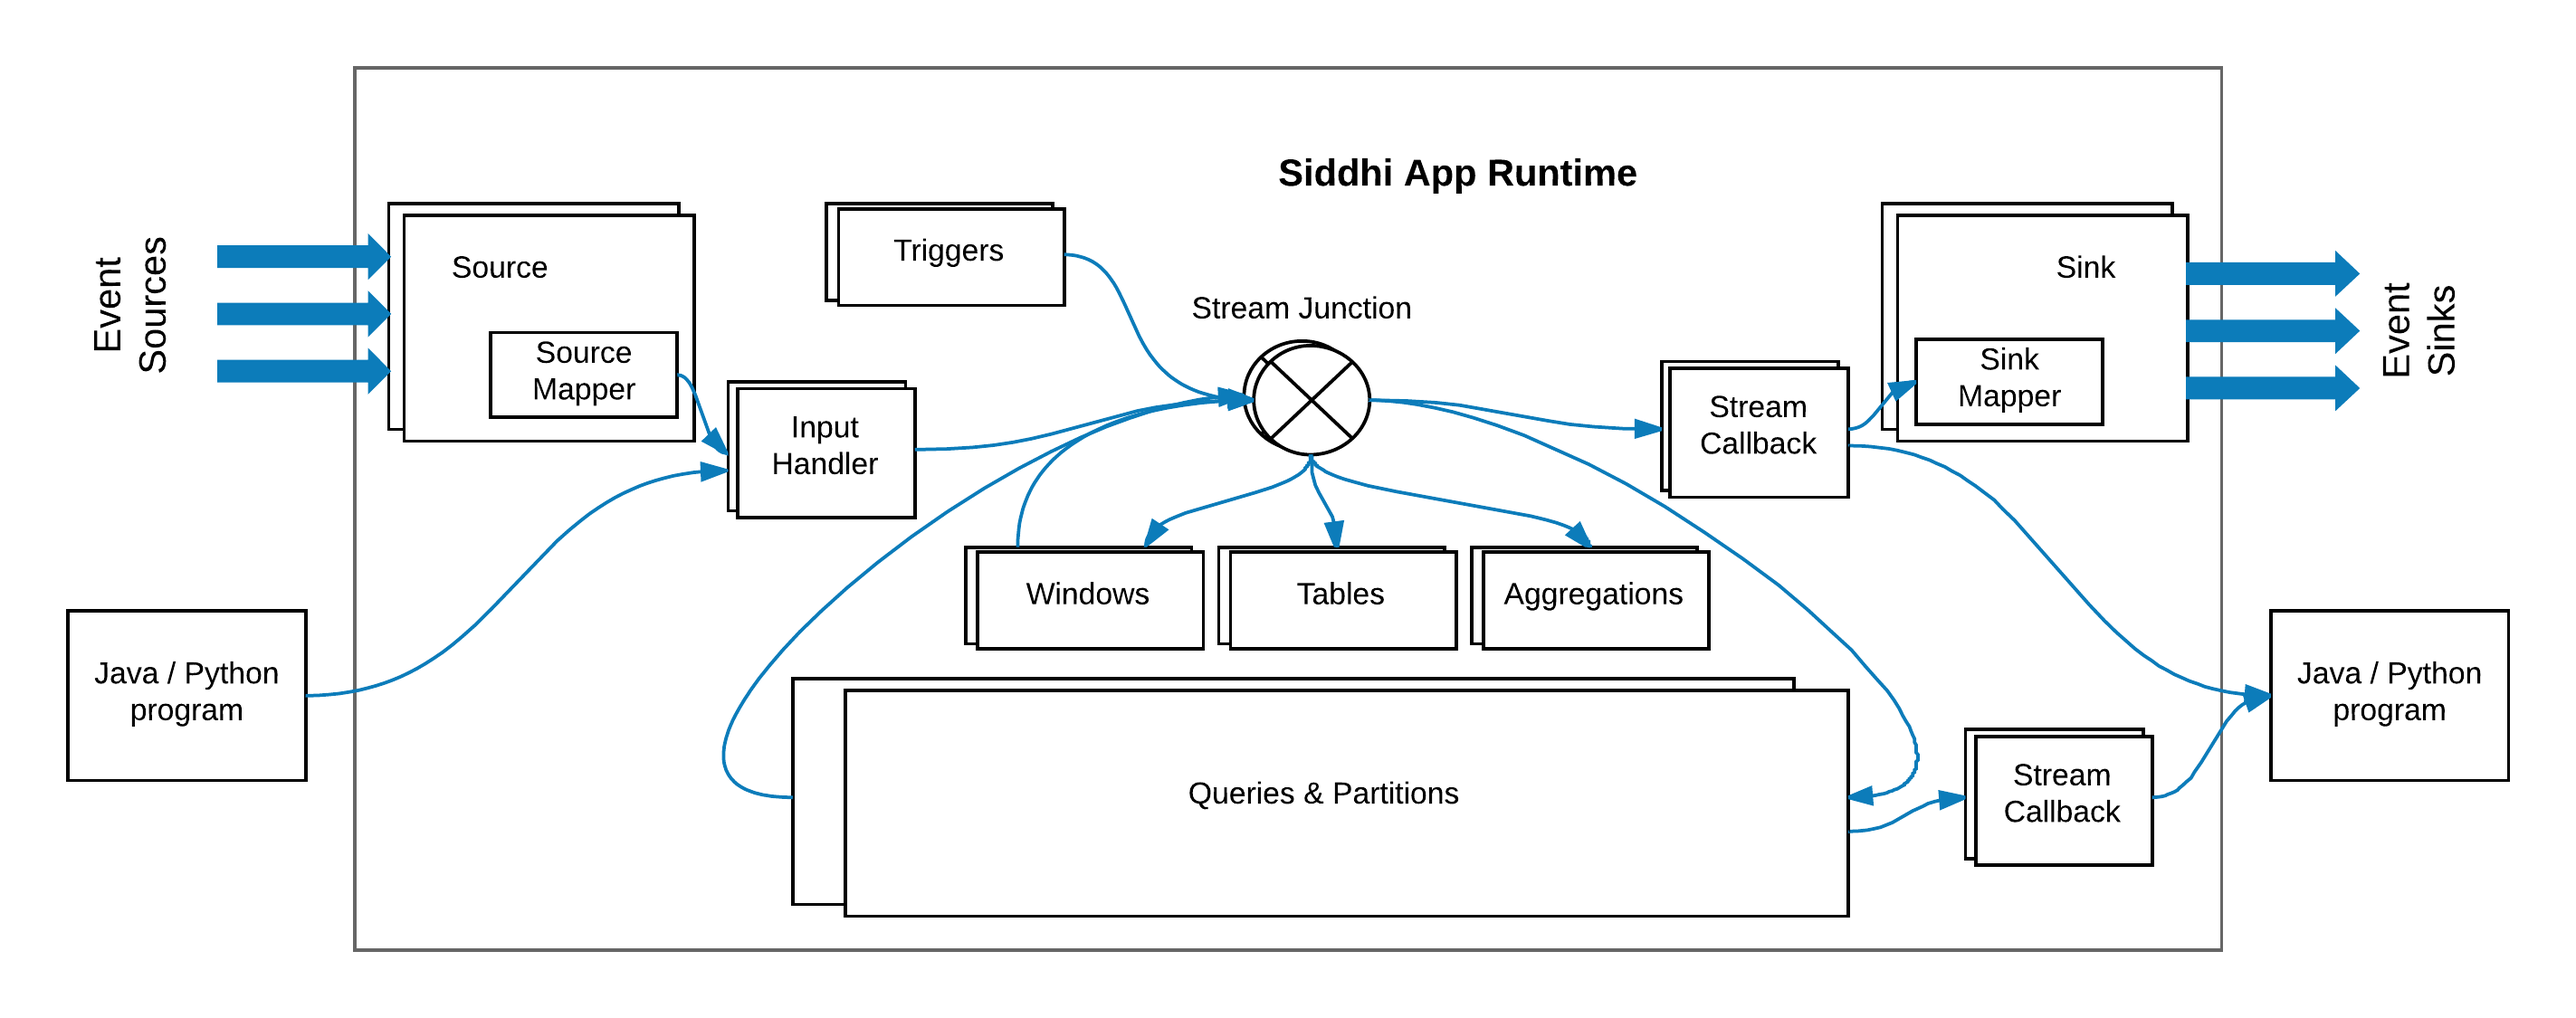
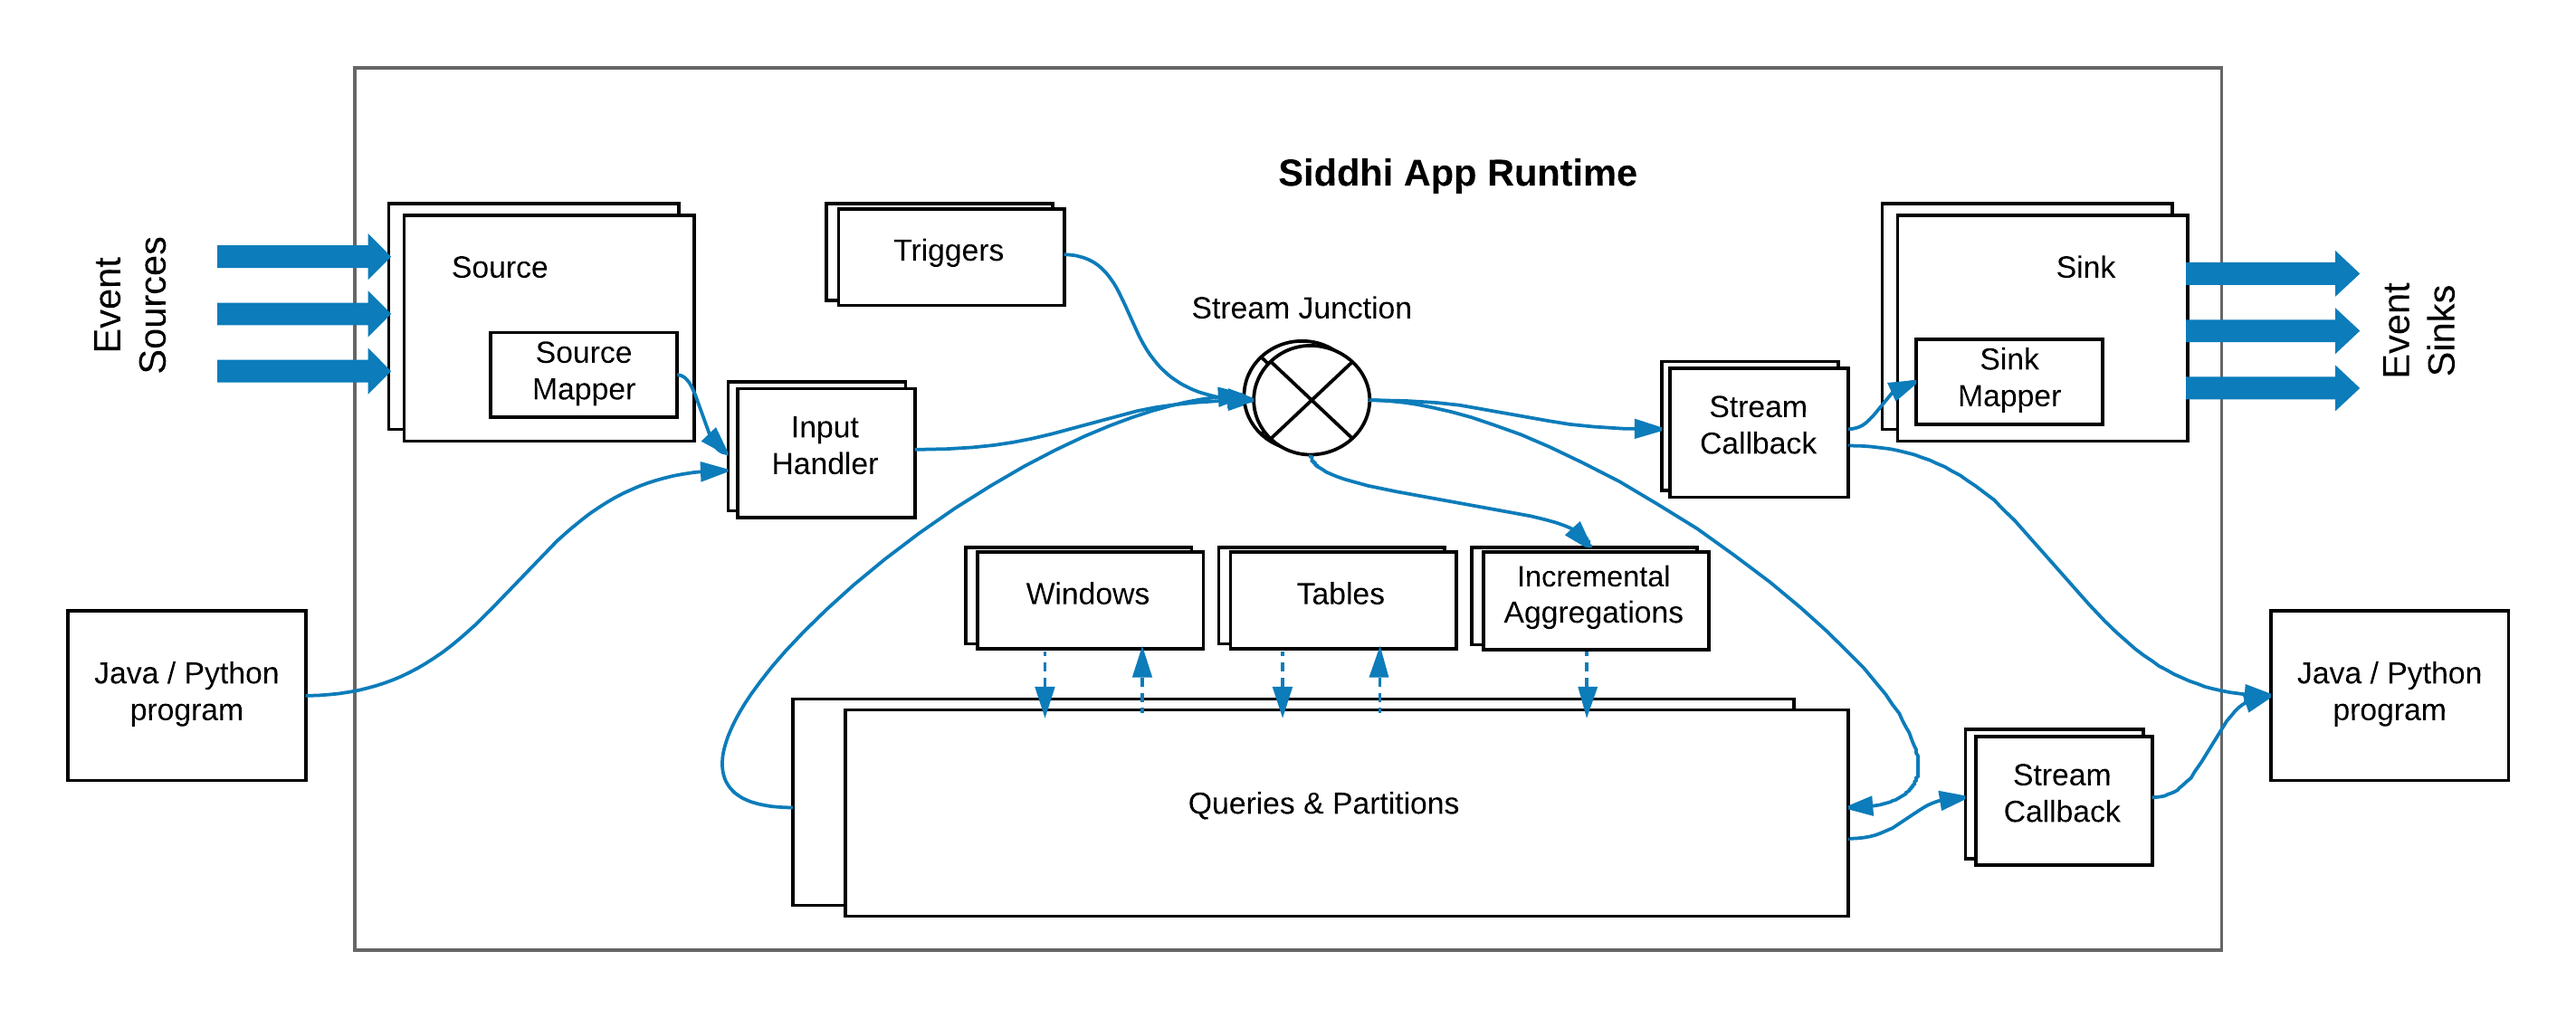
Adding up to siddhi queries.

diff --git a/docs/documentation/siddhi-architecture.md b/docs/documentation/siddhi-architecture.md
@@ -107,9 +107,9 @@ Flowing are the components get involve in handling the events.
     
 - Source Mapper 
 
-   There will be a Source Mapper for each source, responsible for converting the incoming event format into Siddhi Events. 
-   Source type can be configured using the `@Map` annotation used within the `@Source` annotation. When `@Map` annotation 
-   is not defined Siddhi uses PassThroughMapper, assuming that the incoming message is already in Siddhi Event format and 
+    There will be a Source Mapper for each source, responsible for converting the incoming event format into Siddhi Events. 
+    Source Mapper type can be configured using the `@Map` annotation used within the `@Source` annotation. When `@Map` annotation 
+    is not defined Siddhi uses PassThroughMapper, assuming that the incoming message is already in Siddhi Event format and 
     it does not need any changes.
     
 - Sink 
@@ -118,17 +118,46 @@ Flowing are the components get involve in handling the events.
     There will be one Sink generated for each `@Sink` annotation defined on top of the Streams to consume and publish the events arriving 
     on that stream. 
     
+- Sink Mapper 
+
+    There will be one Sink Mapper for each Sink inorder to map the Siddhi events to various data formats such that they 
+    can be published via Sink. Sink Mapper type can be configured using the `@Map` annotation used within the `@Sink`
+    annotation. When `@Map` annotation is not defined Siddhi uses PassThroughMapper, by passing the events as it is 
+    any to the Sink.
     
 - Table
+    
+    Table is responsible for storing events, by default Siddhi uses In-Memory Table implementation, and when `@Store` annotation
+    is used it load the associated Table implantation based on the defined `store` type. Most table implementations are 
+    extended from the AbstractRecordTable abstract class for the easy of development.
+    
 - Window
-- Trigger 
-- Aggregation 
+    
+    Window is responsible for storing and expiring the events based on the given window constrain. Multiple version of windows 
+    can be implemented by extending the WindowProcessor abstract class. 
+    
+- Incremental Aggregation 
 
-- Query
-    - filter
-    - window
-    - join 
-    - pattern/sequence 
+    Manges incremental aggregation by letting you obtain aggregates in an incremental manner for a specified set of time periods.
+    When defining aggregates incremental aggregation functions can be implemented by extending IncrementalAttributeAggregator. 
+     
+- Trigger
+ 
+    Trigger triggers events on a given interval to the stream junction with has the same name as of the Trigger.
+    
+- Query Callback 
+
+    This can be used to get events generated from Queries, this notifies the event occurrence `timestamp`, and classifies 
+    the events into `currentEvents`, and `expiredEvents`. 
+    
+##Siddhi Query Execution 
+
+Siddhi queries can be categorised in to three main types such as single input queries which comprises query types filter and windows,
+ two input queries comprising joins, and multi input queries comprising pattern and sequences. 
+
+Following section explains the internal of each query type. 
+
+
     
 - Partition
     - inner stream
